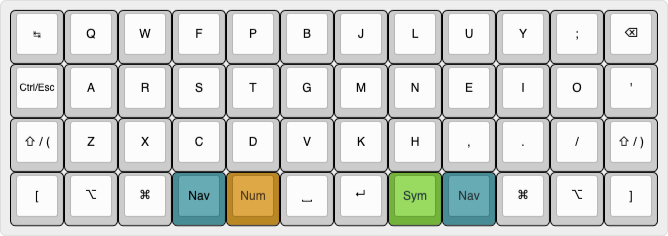
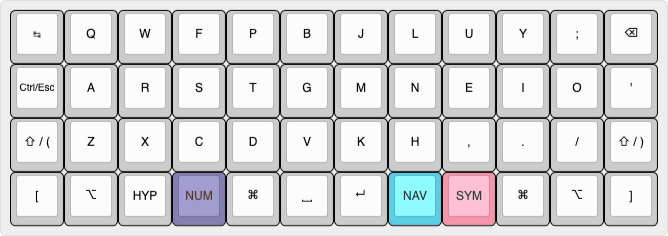
updated docs

Changed region(s): [[0.1796, 0.7119, 0.4192, 0.9788], [0.5689, 0.7119, 0.7485, 0.9788]]

diff --git a/keymap/keymap.c b/keymap/keymap.c
@@ -96,22 +96,28 @@ tap_dance_action_t tap_dance_actions[] = {
 /* ============================== Keymaps ================================ */
 const uint16_t PROGMEM keymaps[][MATRIX_ROWS][MATRIX_COLS] = {
 
-/* QWERTY (base)
- * ,-----------------------------------------------------------------------------------.
- * | Tab  |  Q   |  W   |  E   |  R   |  T   |  Y   |  U   |  I   |  O   |  P   | Bksp |
- * |------+------+------+------+------+------+------+------+------+------+------+------|
- * | Esc  |  A   |  S   |  D   |  F   |  G   |  H   |  J   |  K   |  L   |  ;   |  '   |
- * |------+------+------+------+------+------+------+------+------+------+------+------|
- * | Shift|  Z   |  X   |  C   |  V   |  B   |  N   |  M   |  ,   |  .   |  /   |Enter |
- * |------+------+------+------+------+------+------+------+------+------+------+------|
- * | Brite| Ctrl | Alt  | GUI  | NUM  |     |     | SYM  | Left | Down |  Up  |Right |
- * `-----------------------------------------------------------------------------------'
+/* QWERTY 
+ * ,-----------------------------------------------------------------------------------------------------------------------.
+ * |   Tab   |    Q    |    W    |    E    |    R    |    T    |    Y    |    U    |    I    |    O    |    P    |  Bksp   |
+ * |---------+---------+---------+---------+---------+---------+---------+---------+---------+---------+---------+---------|
+ * | Ctr/Esc |    A    |    S    |    D    |    F    |    G    |    H    |    J    |    K    |    L    |    ;    |   '     |
+ * |---------+---------+---------+---------+---------+---------+---------+---------+---------+---------+---------+---------|
+ * | Shift/( |    Z    |    X    |   C/⎘   |    C    |   V/⎘   |    V    |    B    |    ,    |    .    |   / ?   | Shift/) |
+ * |---------+---------+---------+---------+---------+---------+---------+---------+---------+---------+---------+---------|
+ * |    [    |   Alt   |   HYPR  |   NUM   |   LGUI  |   Space |  Ent/⌫  |   NAV   |   SYM   |   RGUI  |   Alt   |    ]    |
+ * `-----------------------------------------------------------------------------------------------------------------------'
+ * Notes:
+ *  - Tap-dance:
+ *      ; → ; / :      ' → ' / "
+ *      C → C / ⌘C     V → V / ⌘V
+ *      / → / / ?
+ *  - Outer brackets [ ] mirror Colemak layer for symmetry.
  */
 [_QWERTY] = LAYOUT_planck_grid(
-    KC_TAB,  KC_Q,    KC_W,    KC_E,    KC_R,    KC_T,    KC_Y, KC_U,    KC_I,    KC_O,    KC_P,    KC_BSPC,
-    KC_ESC,  KC_A,    KC_S,    KC_D,    KC_F,    KC_G,    KC_H, KC_J,    KC_K,    KC_L,    KC_SCLN, KC_QUOT,
-    KC_LSFT, KC_Z,    KC_X,    KC_C,    KC_V,    KC_B,    KC_N, KC_M,    KC_COMM, KC_DOT,  KC_SLSH, KC_ENT ,
-    BACKLIT, KC_LCTL, KC_LALT, KC_LGUI, NUM,     SFT_T(KC_SPC), KC_ENT,  SYM,     KC_LEFT, KC_DOWN, KC_UP,   KC_RGHT
+    KC_TAB,     KC_Q,   KC_W,       KC_E,          KC_R,   KC_T,           KC_Y,          KC_U,   KC_I,    KC_O      , KC_P            , KC_BSPC,
+    CTRL_ESC,   KC_A,   KC_S,       KC_D,          KC_F,   KC_G,           KC_H,          KC_J,   KC_K,    KC_L,     KC_SCLN          , TD(TD_QUOT_DQUOT),
+    SC_LSPO,    KC_Z,   KC_X,       TD(TD_C_COPY), KC_C,   TD(TD_V_PASTE), KC_V,          KC_B,   KC_COMM, KC_DOT    , TD(TD_SLSH_QUES), SC_RSPC,
+    KC_LBRC,    KC_LALT,HYPR(KC_NO),NUM,           KC_LGUI,SFT_T(KC_SPC),  LT(0, KC_ENT), NAV,    SYM,     KC_RGUI   , KC_RALT         , KC_RBRC
 ),
 
 /* Colemak (base)
